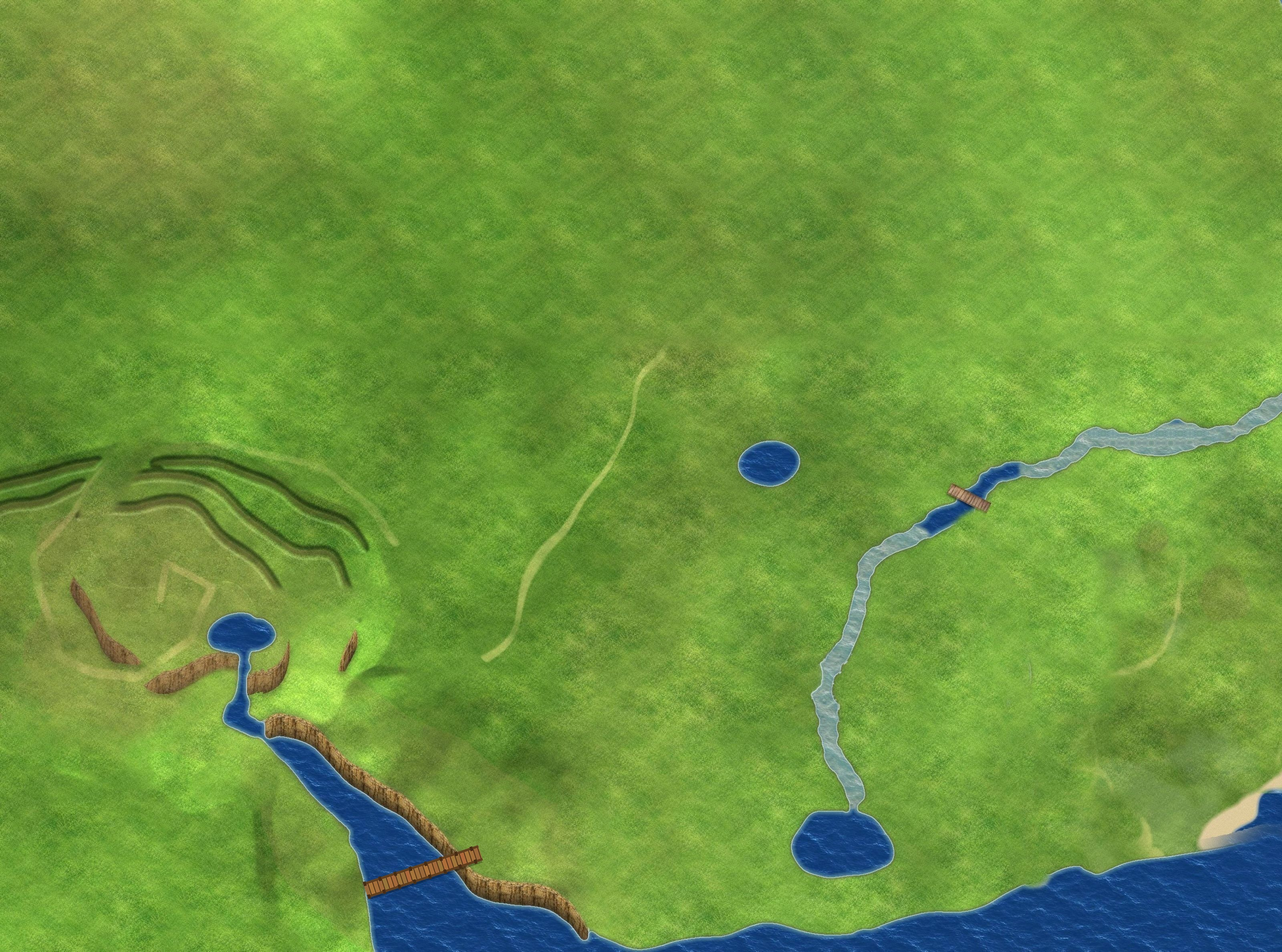
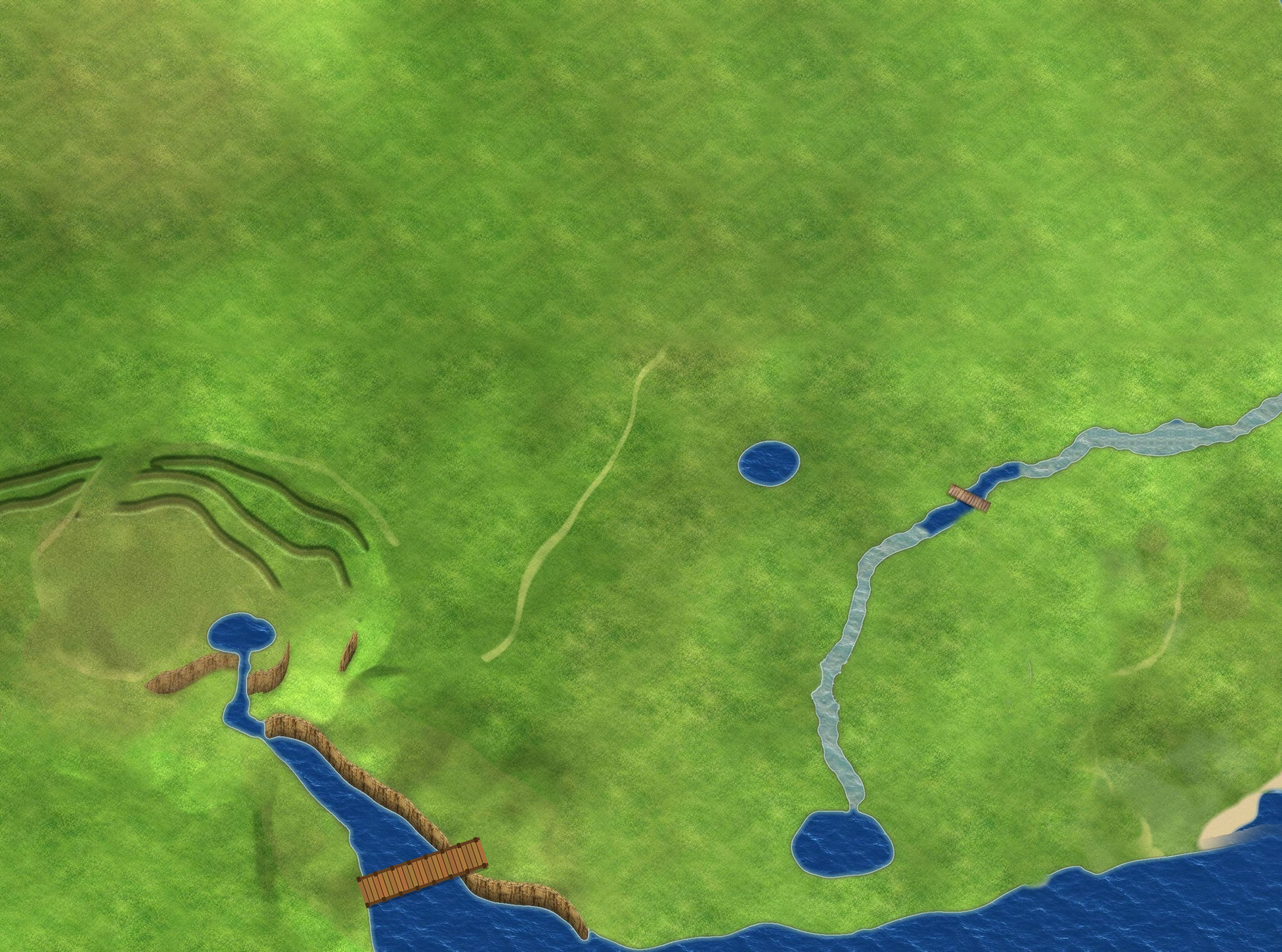
木桥加宽约 2 倍（防卡怪）；山顶城堡区删掉中间斜悬崖和旧小路线（画面 + 碰撞）
Claude-Session: https://claude.ai/code/session_011WrGna6yNwTfpmyp4CxMHs

Changed region(s): [[0.0312, 0.5606, 0.1875, 0.7163], [0.2812, 0.8721, 0.375, 0.9655]]

diff --git a/src/main.js b/src/main.js
@@ -1,16 +1,16 @@
 
-import {createMenu} from './menu.js?v=11022120';
-import {createSurvival} from './survival.js?v=11022120';
-import {createEnemies} from './enemies.js?v=11022120';
-import {createAudio} from './audio.js?v=11022120';
-import {createMeta} from './meta.js?v=11022120';
+import {createMenu} from './menu.js?v=11022130';
+import {createSurvival} from './survival.js?v=11022130';
+import {createEnemies} from './enemies.js?v=11022130';
+import {createAudio} from './audio.js?v=11022130';
+import {createMeta} from './meta.js?v=11022130';
 window.META=createMeta();
 const SFX=window.SFX=createAudio();
-import {createPathing} from './pathing.js?v=11022120';
+import {createPathing} from './pathing.js?v=11022130';
 let PATH=null;window.PATHDIR=(x,y)=>PATH?.dir(x,y);window.PATHDBG=()=>PATH?.dbg();window.PATHAT=(x,y)=>PATH?PATH.at(x,y):-1;
-import {createWeather} from './weather.js?v=11022120';
-import {createRun} from './run.js?v=11022120';
-import {createDebug} from './debug.js?v=11022120';
+import {createWeather} from './weather.js?v=11022130';
+import {createRun} from './run.js?v=11022130';
+import {createDebug} from './debug.js?v=11022130';
 const [W,CH,ED]=await Promise.all(['data/world.json','data/characters.json','data/enemies.json'].map(u=>fetch(u).then(r=>r.json())));
 const HN=await fetch('data/heroine.json').then(r=>r.json());
 const HM=await fetch('data/hero_m.json').then(r=>r.json());

diff --git a/src/run.js b/src/run.js
@@ -1,5 +1,5 @@
-import {install as installLM} from './landmarks.js?v=11022120';
-import {DEFS,CARD_DT,CARD_IC,CARD_KIND,install} from './cards2.js?v=11022120';
+import {install as installLM} from './landmarks.js?v=11022130';
+import {DEFS,CARD_DT,CARD_IC,CARD_KIND,install} from './cards2.js?v=11022130';
 // 局内成长（最小可玩版）：经验珠 → 升级三选一（大类卡点开再选）→ 多把武器自动攻击；被动；刷怪节奏；精英与 Boss。
 // 设计见 docs/GAME_DESIGN.md。伤害单位 = 敌人血量单位（棍兵基础 2 点）。
 const R=(a,b)=>a+Math.random()*(b-a);

diff --git a/index.html b/index.html
@@ -88,5 +88,5 @@ function tick(n){if(!document.getElementById('boot'))return;var t=(n-t0)/1000,dt
 <div class="sw" role="group" aria-label="角色" id="cs"><button data-c="m" aria-pressed="true">短发</button><button data-c="f0" aria-pressed="false">女主·长直发</button></div>
 </div>
 
-<script type="module" src="src/main.js?v=11022120"></script>
+<script type="module" src="src/main.js?v=11022130"></script>
 </body></html>

diff --git a/src/menu.js b/src/menu.js
@@ -1,4 +1,4 @@
-import {WEAPONS,PASSIVES,POOL,PASS_KEYS,WIC,PIC,fixDeck,DECKN,KIND} from './run.js?v=11022120';
+import {WEAPONS,PASSIVES,POOL,PASS_KEYS,WIC,PIC,fixDeck,DECKN,KIND} from './run.js?v=11022130';
 // 主界面：独立绘制演示场景；备战（角色/装备/商店）→ 选关卡 → 出发。
 document.documentElement.classList.add('menu-loading');
 const style=document.createElement('style');

diff --git a/src/survival.js b/src/survival.js
@@ -1,4 +1,4 @@
-import {createLeaderboard,submitScore,formatTime,scoreOf} from './leaderboard.js?v=11022120';
+import {createLeaderboard,submitScore,formatTime,scoreOf} from './leaderboard.js?v=11022130';
 
 export function createSurvival(game){
  let maxHp=100,playing=false,finished=false,hp=100,elapsed=0,cooldown=0,name='',generation=0;
